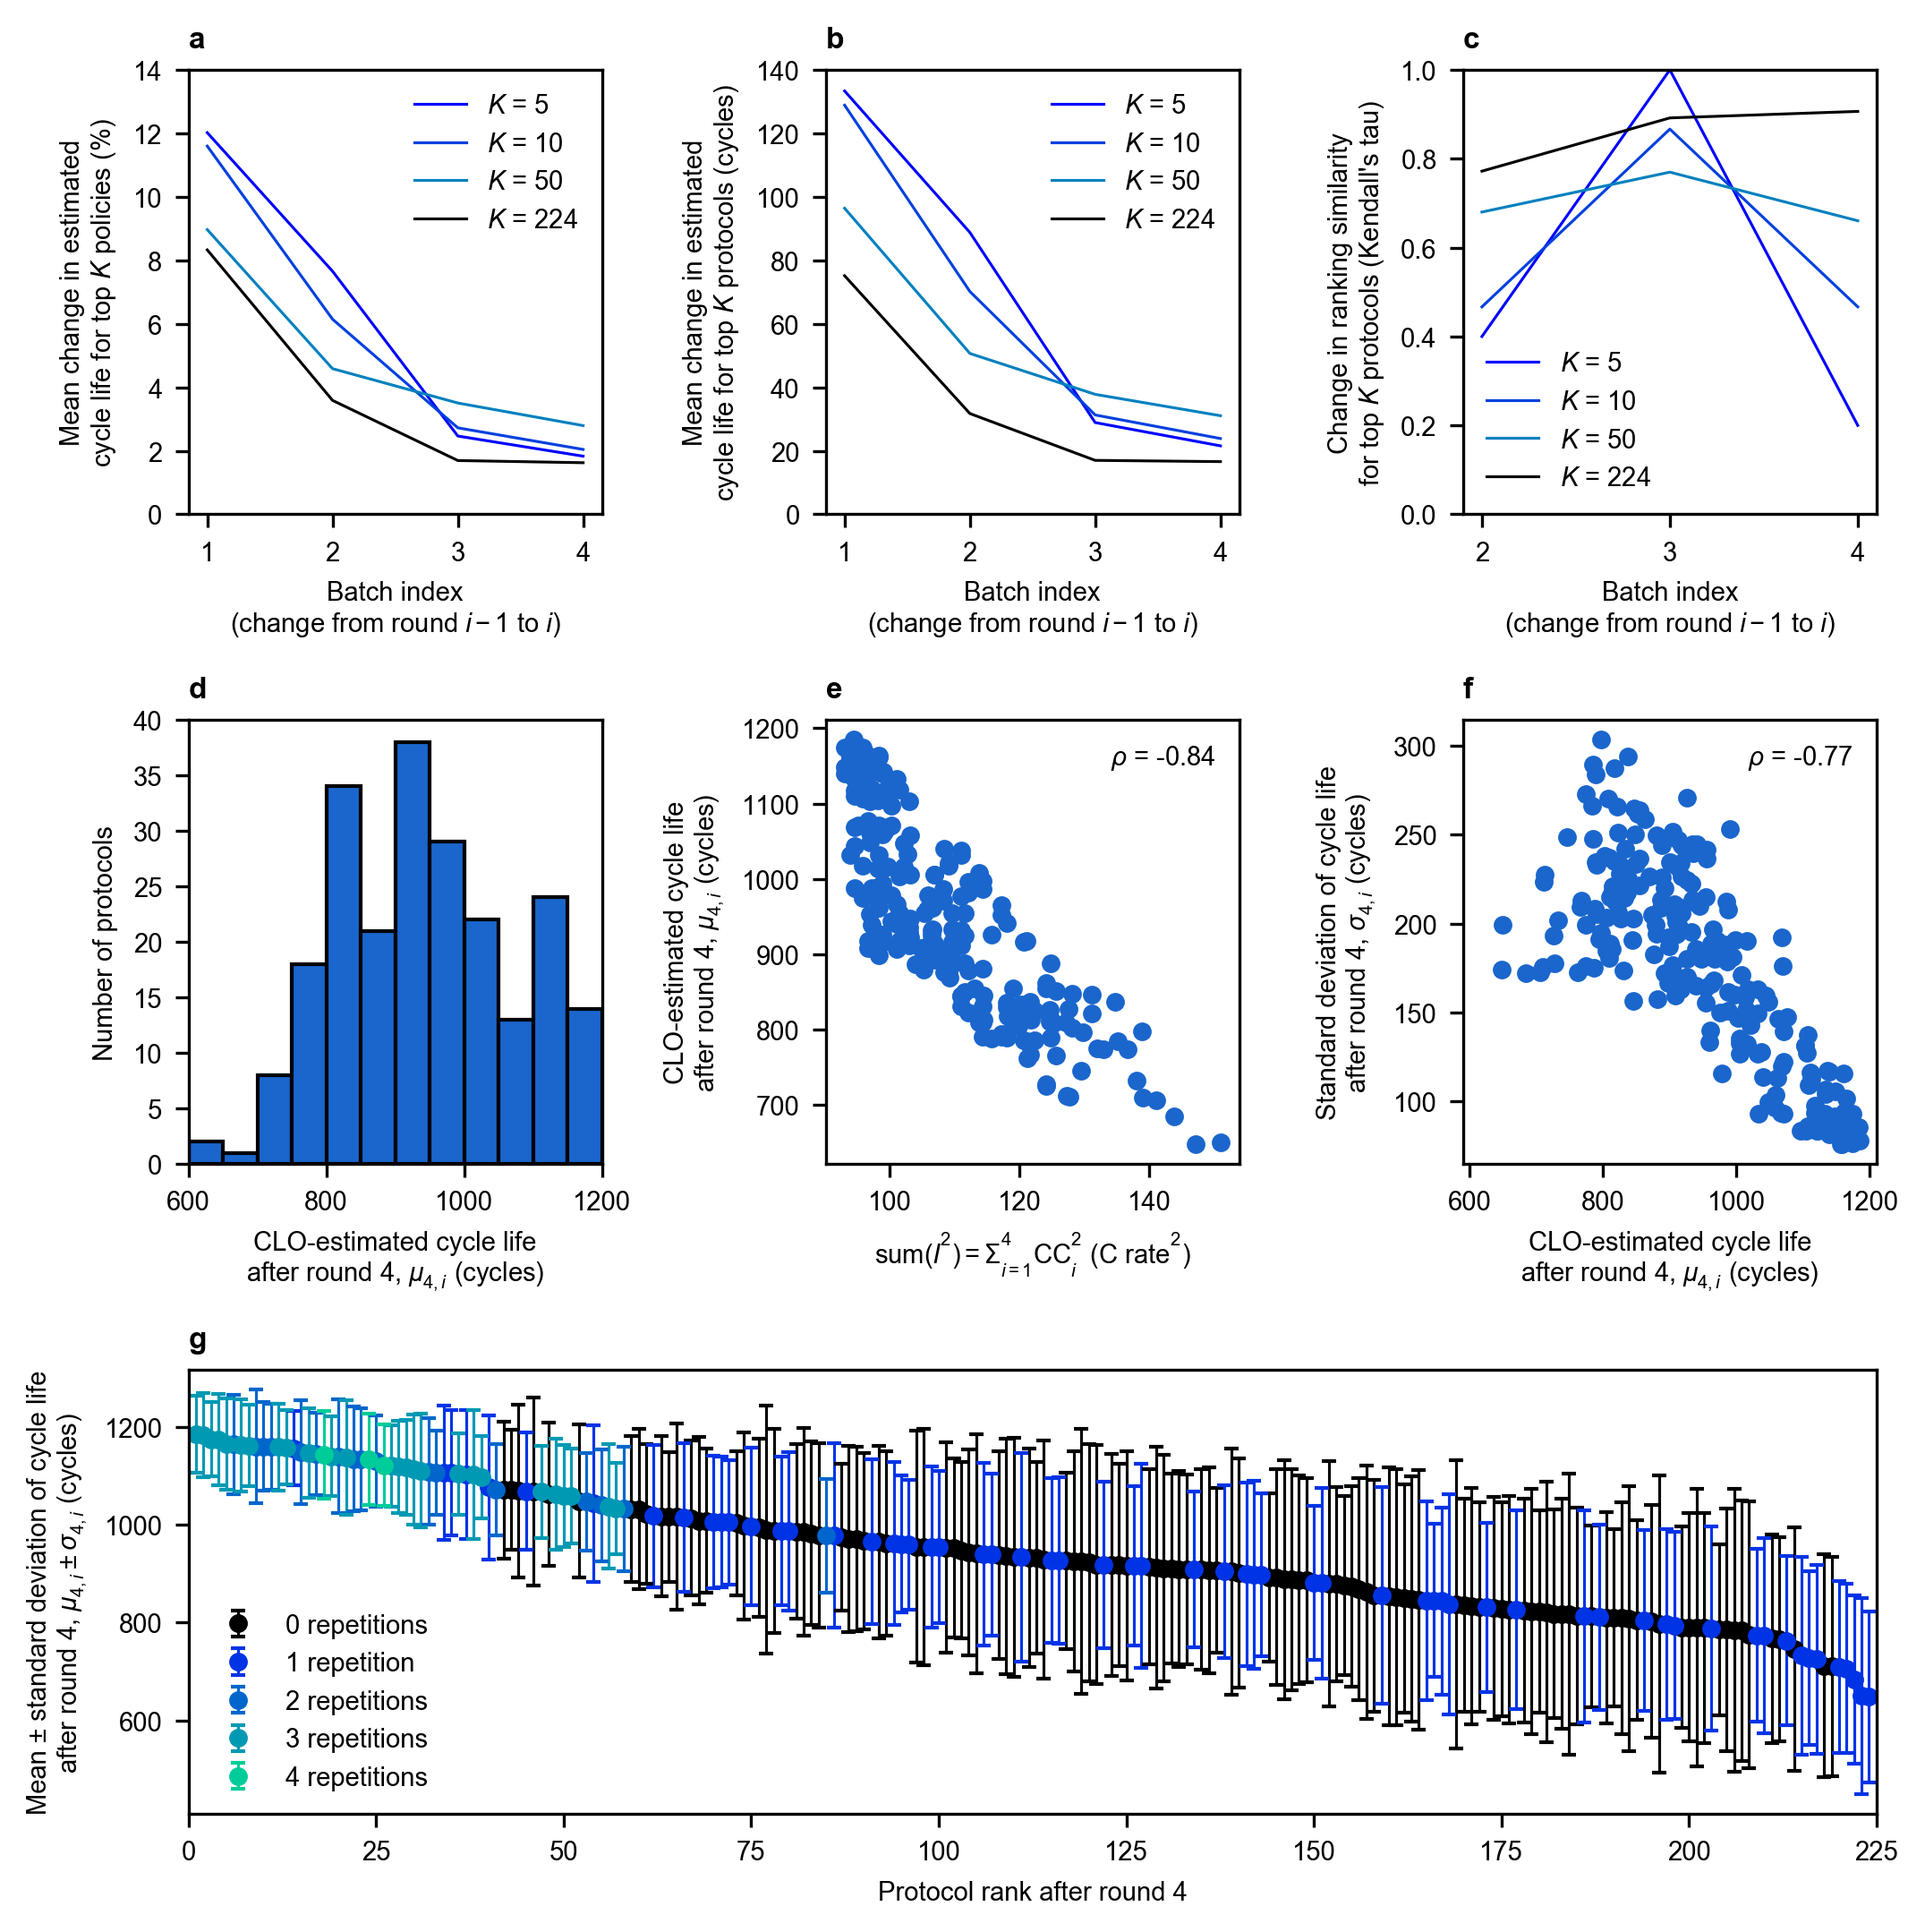
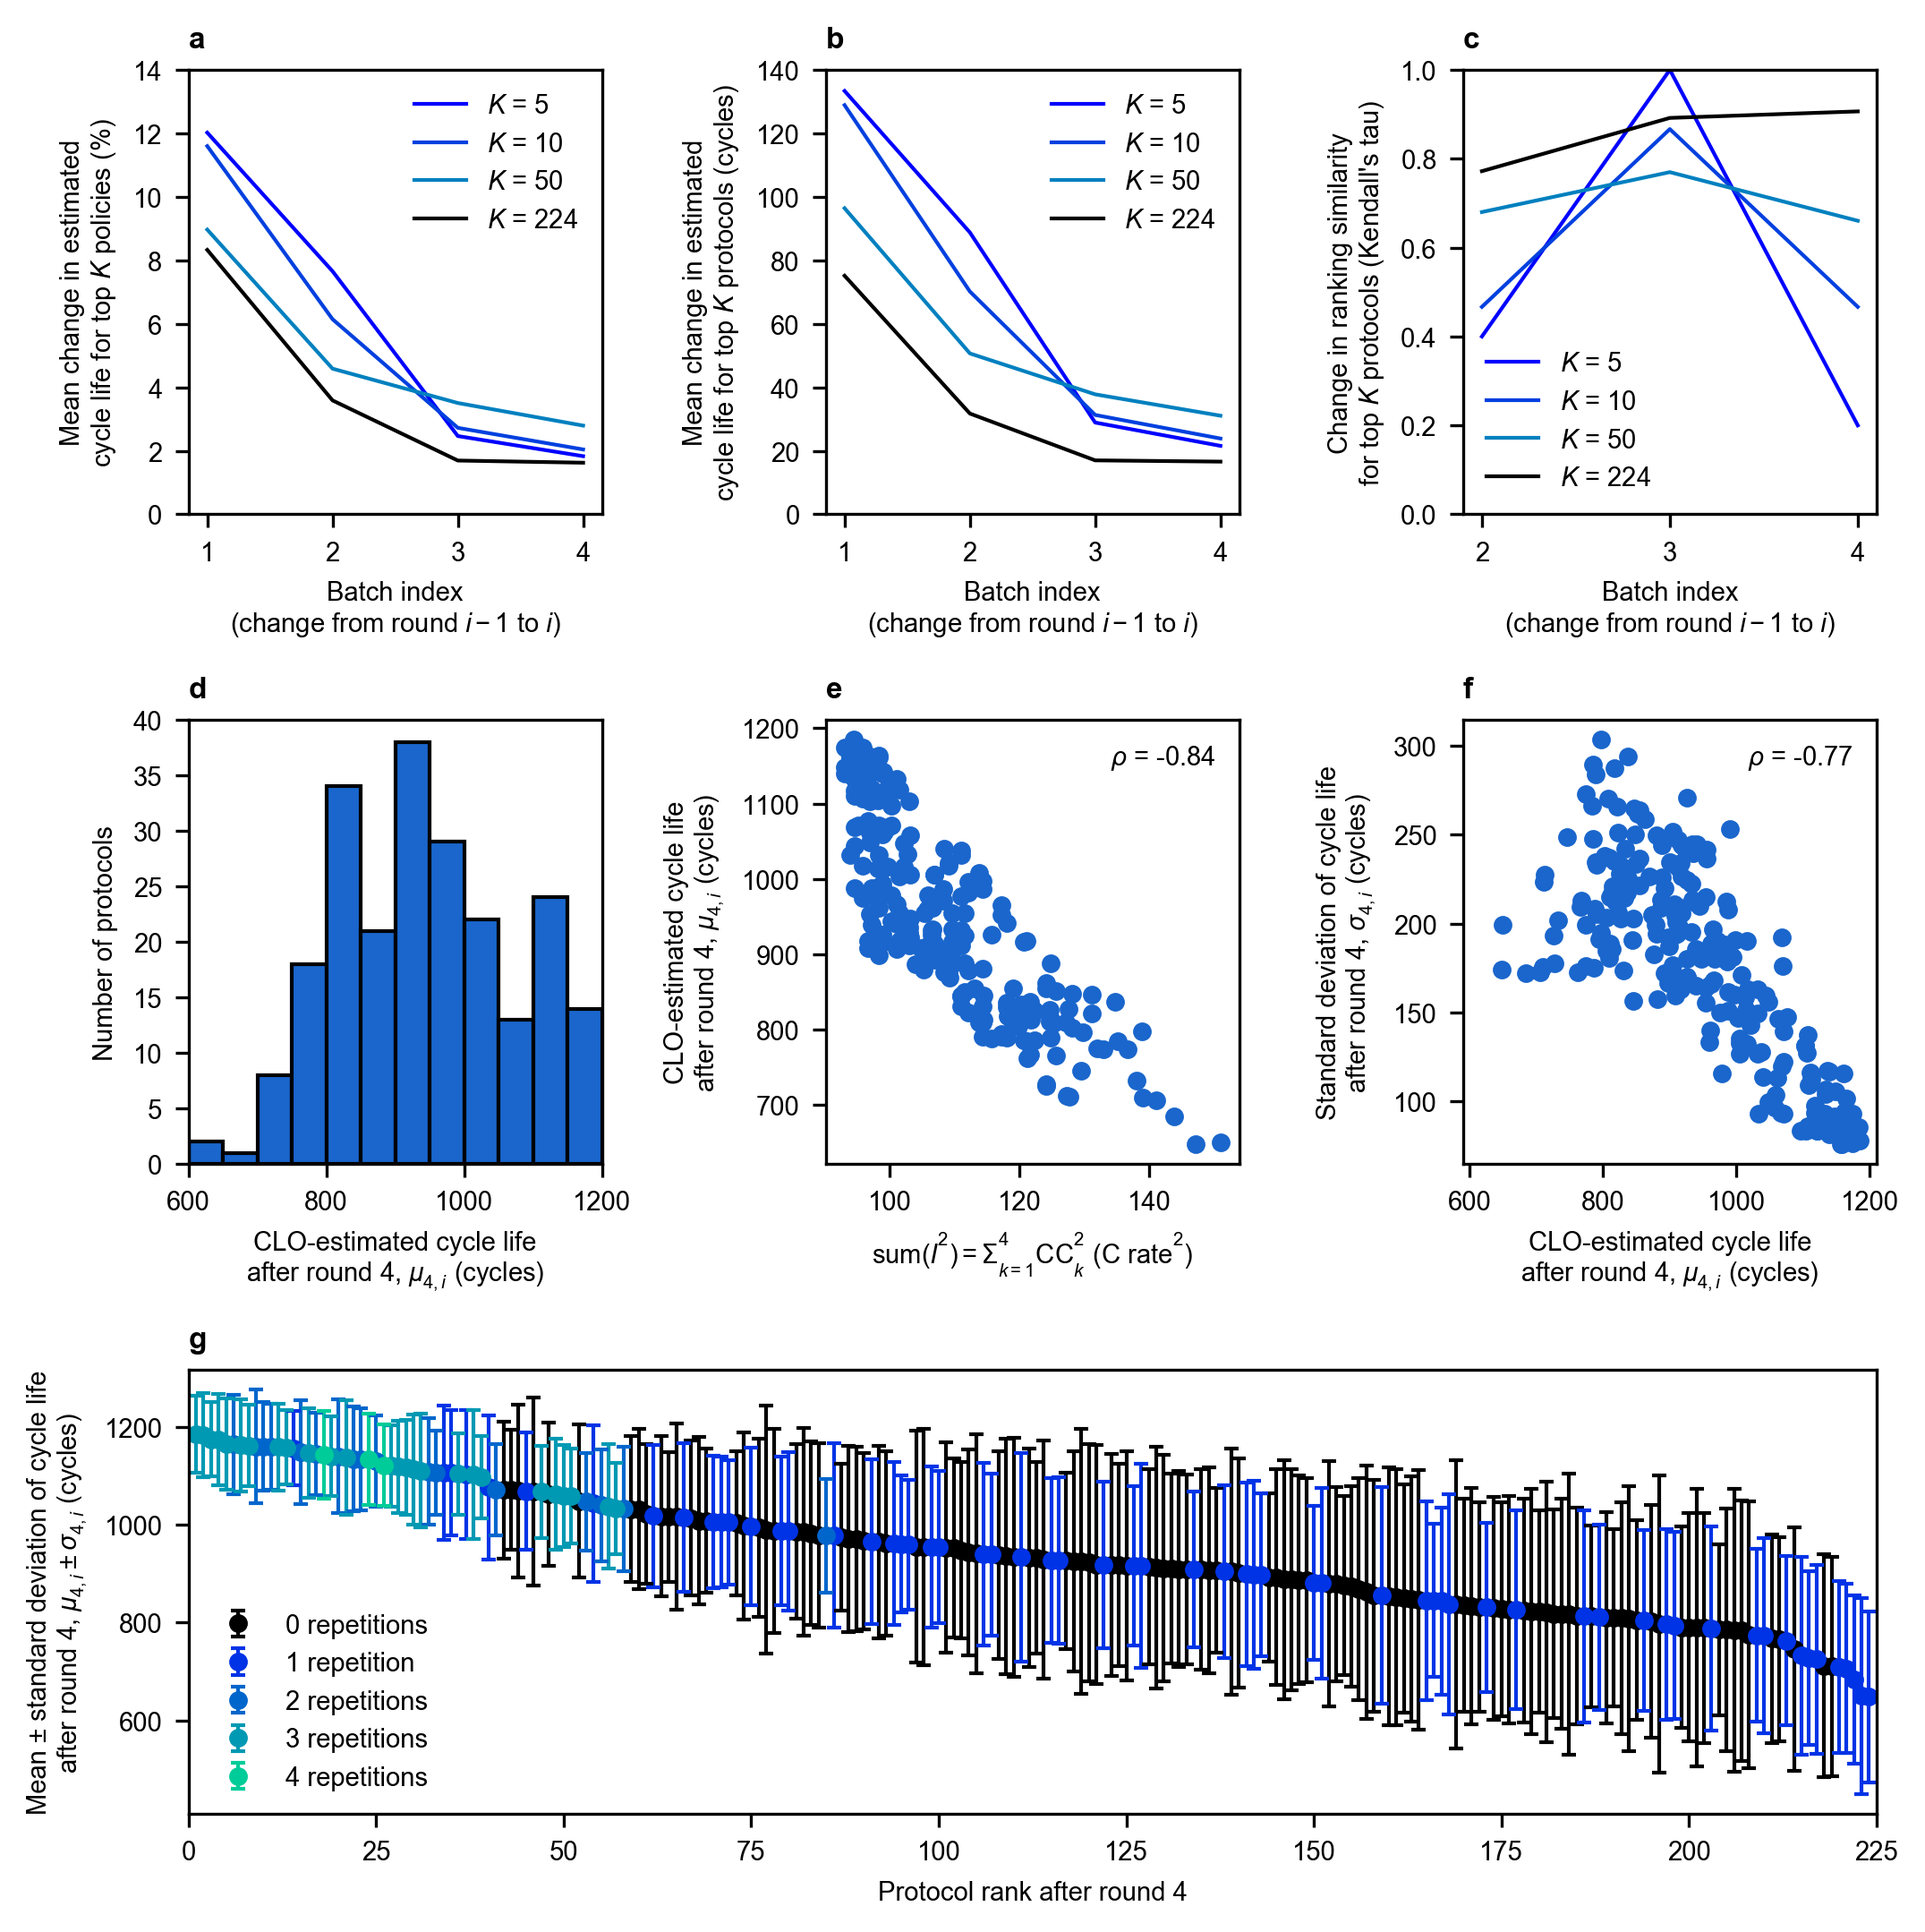
Change CC_i to CC_k

diff --git a/figures/SI/misc_results/misc_results_v2.py b/figures/SI/misc_results/misc_results_v2.py
@@ -153,7 +153,7 @@ policies = np.asarray(policies) # cast to numpy array
 ## MODELS
 values = np.sum(policies**2,axis=1)
 
-xlabel_mod = r'$\mathdefault{sum(}I\mathdefault{^2)=\Sigma}_{i=1}^{4}\mathdefault{CC}_i^2$ (C rate$^2$)'
+xlabel_mod = r'$\mathdefault{sum(}I\mathdefault{^2)=\Sigma}_{k=1}^{4}\mathdefault{CC}_k^2$ (C rate$^2$)'
 rho = pearsonr(values,mean)[0]
 leglabel = r'$\rho$ = {:.2f}'.format(rho)
 
